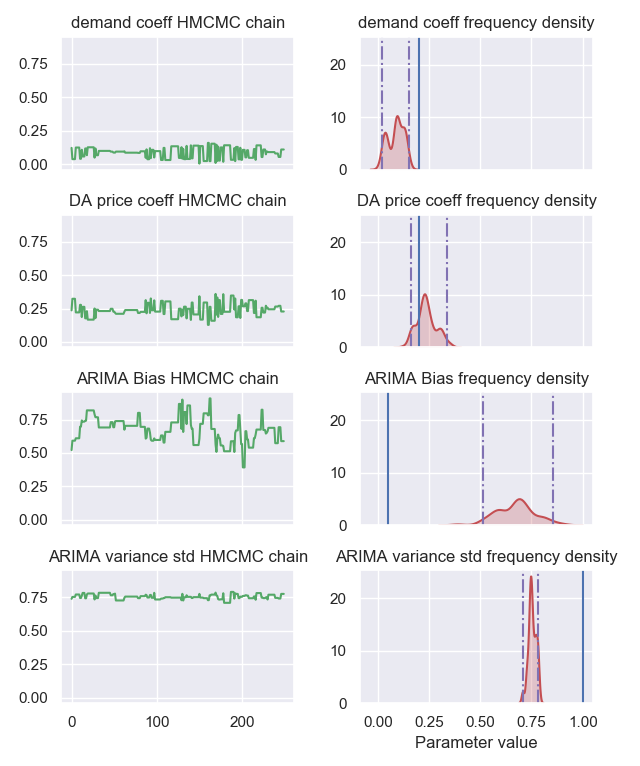
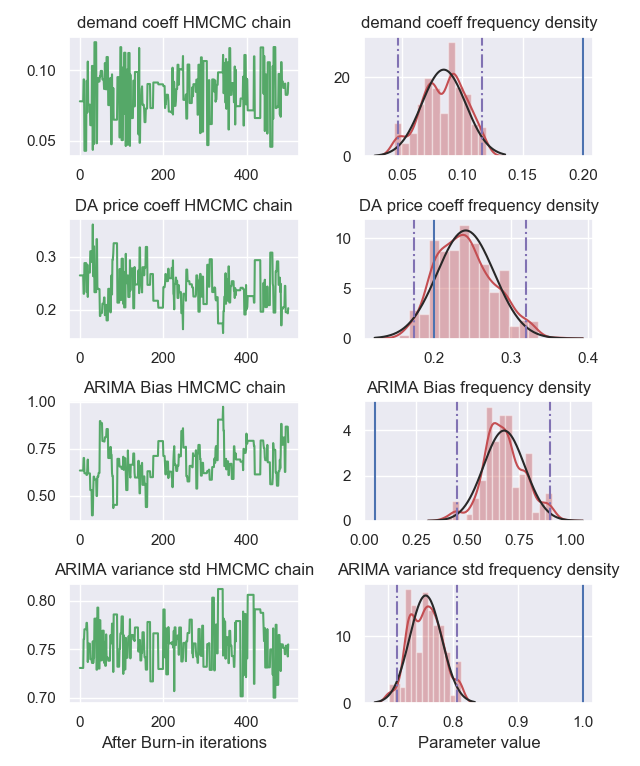
Add files via upload

diff --git a/Conference/tf_prob.py b/Conference/tf_prob.py
@@ -136,11 +136,6 @@ def determinstic_model2(x_data,y_data,batch_size=10):
 # output2 = determinstic_model2(x,np.array(y).reshape(-1,1),10)
 
 
-
-import tensorflow.compat.v1 as tf
-mygraph=tf.Graph()
-
-
 def linear_regression(features):
     D = features.shape[1]  # number of dimensions
     coeffs = ed.Normal(  # normal prior on weights
@@ -165,13 +160,13 @@ def linear_regression2(features):
     factor_coeff_loc= ed.Normal(loc=tf.zeros([D, 1], dtype=tf.float32),
                                   scale=10*tf.ones([D, 1], dtype=tf.float32),
                                   name='factor_coeff_loc')
-    factor_coeff_scale= ed.HalfNormal(
+    factor_coeff_scale= ed.Normal( loc=tf.ones([D, 1], dtype=tf.float32),
                                    scale=10 * tf.ones([D, 1], dtype=tf.float32),
                                    name='factor_coeff_scale')
 
     coeffs = ed.Normal(  # normal prior on weights
         loc=factor_coeff_loc,
-        scale=factor_coeff_scale,
+        scale=tf.nn.softplus(factor_coeff_scale),
         name="coeffs")
     bias = ed.Normal(  # normal prior on bias
         loc=tf.zeros([1], dtype=tf.float32),
@@ -187,27 +182,28 @@ def linear_regression2(features):
     return predictions
 
 # Joint posterior distribution
-log_joint = ed.make_log_joint_fn(linear_regression)
+log_joint = ed.make_log_joint_fn(linear_regression2)
 
 
 # Function to compute the log posterior probability
-# def target_log_prob_fn(factor_coeff_loc,factor_coeff_scale,coeffs, bias, noise_std):
+def target_log_prob_fn(factor_coeff_loc,factor_coeff_scale,coeffs, bias, noise_std):
+    return log_joint(
+        features=tf.convert_to_tensor(x, dtype=tf.float32),
+        factor_coeff_loc=factor_coeff_loc,
+        factor_coeff_scale=factor_coeff_scale,
+        coeffs=coeffs,
+        bias=bias,
+        noise_std=noise_std,
+        predictions=tf.reshape(tf.convert_to_tensor(y, dtype=tf.float32), [y.shape[0], 1]))
+
+# def target_log_prob_fn(coeffs, bias, noise_std):
 #     return log_joint(
 #         features=tf.convert_to_tensor(x, dtype=tf.float32),
-#         factor_coeff_loc=factor_coeff_loc,
-#         factor_coeff_scale=factor_coeff_scale,
 #         coeffs=coeffs,
 #         bias=bias,
 #         noise_std=noise_std,
 #         predictions=tf.reshape(tf.convert_to_tensor(y, dtype=tf.float32), [y.shape[0], 1]))
 
-def target_log_prob_fn(coeffs, bias, noise_std):
-    return log_joint(
-        features=tf.convert_to_tensor(x, dtype=tf.float32),
-        coeffs=coeffs,
-        bias=bias,
-        noise_std=noise_std,
-        predictions=tf.reshape(tf.convert_to_tensor(y, dtype=tf.float32), [y.shape[0], 1]))
 class Timer:
     def __enter__(self):
         self.t0 = time.time()
@@ -220,7 +216,7 @@ class Timer:
 num_results = int(500)  # number of hmc iterations
 n_burnin = int(250)  # number of burn-in steps
 step_size = 0.01
-num_leapfrog_steps = 10
+num_leapfrog_steps = 20
 
 D = x.shape[1]
 # Parameter sizes
@@ -239,26 +235,22 @@ states, kernel_results = tfp.mcmc.sample_chain(
     num_burnin_steps=n_burnin,
     kernel=kernel,
     current_state=[
-
+        tf.zeros(coeffs_size, name='init_factor_coeff_loc', dtype=tf.float32),
+        tf.ones(coeffs_size, name='init_factor_coeff_scale', dtype=tf.float32),
         tf.zeros(coeffs_size, name='init_coeffs', dtype=tf.float32),
         tf.zeros(bias_size, name='init_bias', dtype=tf.float32),
         tf.ones(noise_std_size, name='init_noise_std', dtype=tf.float32),
     ])
-coeffs, bias, noise_std = states
-# with Timer(), tf.Session(mygraph) as sess:
-#     [
-#         coeffs_,
-#         bias_,
-#         noise_std_,
-#         is_accepted_,
-#     ] = sess.run([
-#         coeffs,
-#         bias,
-#         noise_std,
-#         kernel_results.is_accepted,
-#     ])
+
+factor_coeff_loc,factor_coeff_scale,coeffs, bias, noise_std = states
+
+# coeffs, bias, noise_std = states
+
 
 # Samples after burn-in
+
+factor_coeff_loc_samples= factor_coeff_loc[n_burnin:, :, 0]
+factor_coeff_scale_samples= factor_coeff_scale[n_burnin:, :, 0]
 coeffs_samples = coeffs[n_burnin:, :, 0]
 bias_samples = bias[n_burnin:]
 noise_std_samples = noise_std[n_burnin:]
@@ -277,7 +269,7 @@ def post_plot(data, title='', ax=None, true=None, prc=95):
     '''Plot the posterior distribution given MCMC samples'''
     if ax is None:
         ax = plt.gca()
-    sns.kdeplot(data,shade=True, color="r", ax=ax)
+    sns.distplot(data,fit=norm,hist=True, color="r", ax=ax) #,shade=True
     tprc = (100 - prc) / 2
     ax.axvline(x=np.percentile(data, tprc), c= 'm',linestyle='-.')
     ax.axvline(x=np.percentile(data, 100 - tprc), c= 'm',linestyle='-.')
@@ -295,13 +287,14 @@ w_true=[.2,.2]
 b_true=.05
 noise_std_true=1
 # Plot chains and distributions for coefficients
-fig, axes = plt.subplots(D + 2, 2, sharex='col', sharey='col')
+fig, axes = plt.subplots(D + 2, 2, sharex='none', sharey='none')
 fig.set_size_inches(6.4, 8)
 w_names=['demand coeff','DA price coeff']
 for i in range(D):
     chain_post_plot(coeffs_samples[:, i].numpy(),
                     title=w_names[i],
                     ax=axes[i], true=w_true[i])
+
 
 # Plot chains and distributions for bias
 chain_post_plot(bias_samples[:, 0].numpy(),
@@ -314,12 +307,84 @@ chain_post_plot(noise_std_samples[:, 0].numpy(),
                 ax=axes[D + 1], true=noise_std_true)
 
 axes[D + 1][1].set_xlabel("Parameter value")
+axes[D + 1][0].set_xlabel("After Burn-in iterations")
 fig.tight_layout()
+
+# Plot chains and distributions for coefficients
+fig1, axes1 = plt.subplots(2*D, 2, sharex='none', sharey='none')
+fig1.set_size_inches(6.4, 8)
+factor_coeff_loc_names=['mu_phi_DA_demand','mu_phi_DA_price']
+factor_coeff_scale_names= ['sigma2_phi_DA_demand','sigma2_phi_DA_price']
+for i in range(D):
+    chain_post_plot(factor_coeff_loc_samples[:, i].numpy(),
+                    title=factor_coeff_loc_names[i],
+                    ax=axes1[i], true=0)
+
+for i in range(D):
+    chain_post_plot(factor_coeff_scale_samples[:, i].numpy(),
+                    title=factor_coeff_scale_names[i],
+                    ax=axes1[D+i], true=1)
+
+axes1[D + 1][1].set_xlabel("Parameter value")
+axes1[D + 1][0].set_xlabel("After Burn-in iterations")
+fig1.tight_layout()
+
+
+
+
+
+
+test_data=data['2015-12-20':'2015-12-22']
+# new_data['RT_LMP_1']=new_data.RT_LMP.shift(1)
+# new_data['DEMAND_1']=new_data.DEMAND.shift(1)
+# new_data.drop(new_data.index[0])
+from sklearn.preprocessing import MinMaxScaler
+df=MinMaxScaler(feature_range=(0,10)).fit_transform(test_data[["DA_DEMD", "DA_LMP", "RT_LMP"]].dropna())
+x_test= df[:,0:2]
+y_test=df[:,2]
+
+
+
+def ind_pred_dist(X):
+    '''Compute the prediction distribution'''
+    predictions = (np.matmul(X, coeffs_samples.numpy().transpose()) +
+                   bias_samples[:, 0])
+    noise = (noise_std_samples[:, 0] *
+             np.random.randn(noise_std_samples.numpy().shape[0]))
+    return predictions + noise
+
+N_val=x_test.shape[0]
+
+# Compute prediction distribution for all validation samples
+Nmcmc = coeffs_samples.shape[0]
+prediction_distribution = np.zeros((N_val, Nmcmc))
+for i in range(N_val):
+    prediction_distribution[i, :] = ind_pred_dist(x_test[i, :])
+
+# Plot random datapoints and their prediction intervals
+def plot_output(m):
+    fig3, axes3 = plt.subplots(5, 3, sharex='none', sharey='none')
+    fig3.set_size_inches(6.4, 8)
+    for i in range(5):
+        for j in range(3):
+            ix = i * 3 + j
+            pred_dist = prediction_distribution[m - ix - 1, :]
+            sns.distplot(pred_dist, fit=norm, hist=True, color="r", ax=axes3[i][j])
+            # sns.kdeplot(pred_dist, shade=True, ax=axes3[i][j])
+            axes3[i][j].axvline(x=y_test[ix])
+
+    axes3[4][0].set_ylabel('p(RT price| (DA price,DA demand))')
+    axes3[1][0].set_ylabel('p(RT price| (DA price,DA demand))')
+    axes3[4][0].set_xlabel('RT price')
+    axes3[4][1].set_xlabel('RT price')
+    axes3[4][2].set_xlabel('RT price')
+    plt.show()
+
+plot_output(N_val)
+
 plt.show()
 
 a=1
-
-
 
 
 
